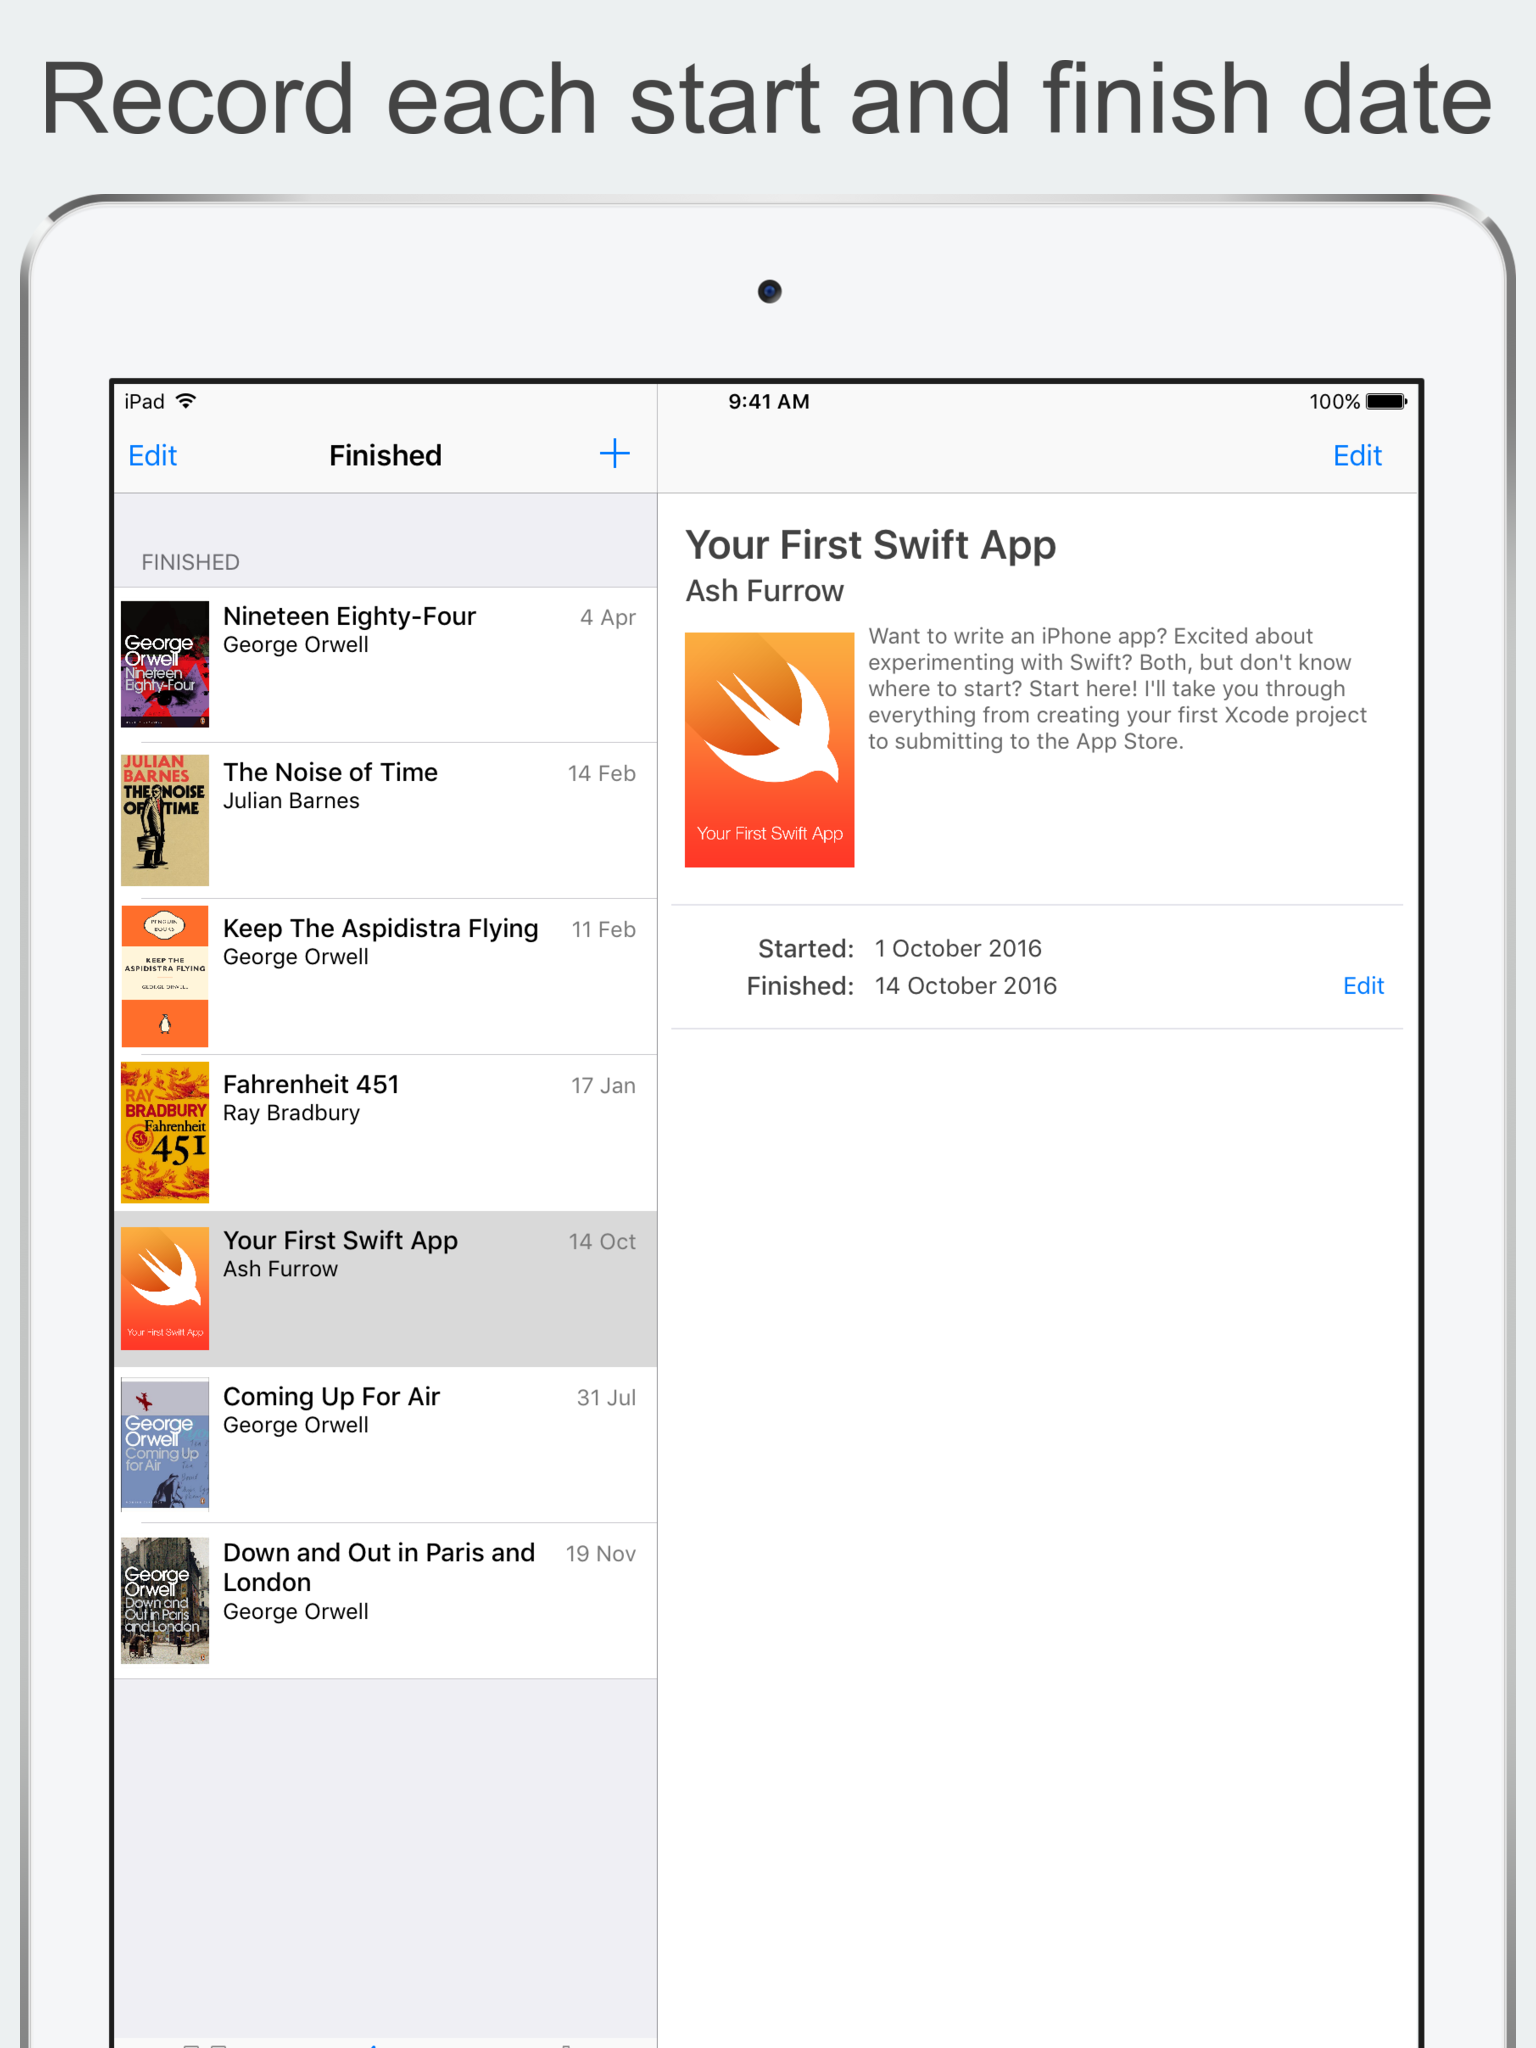
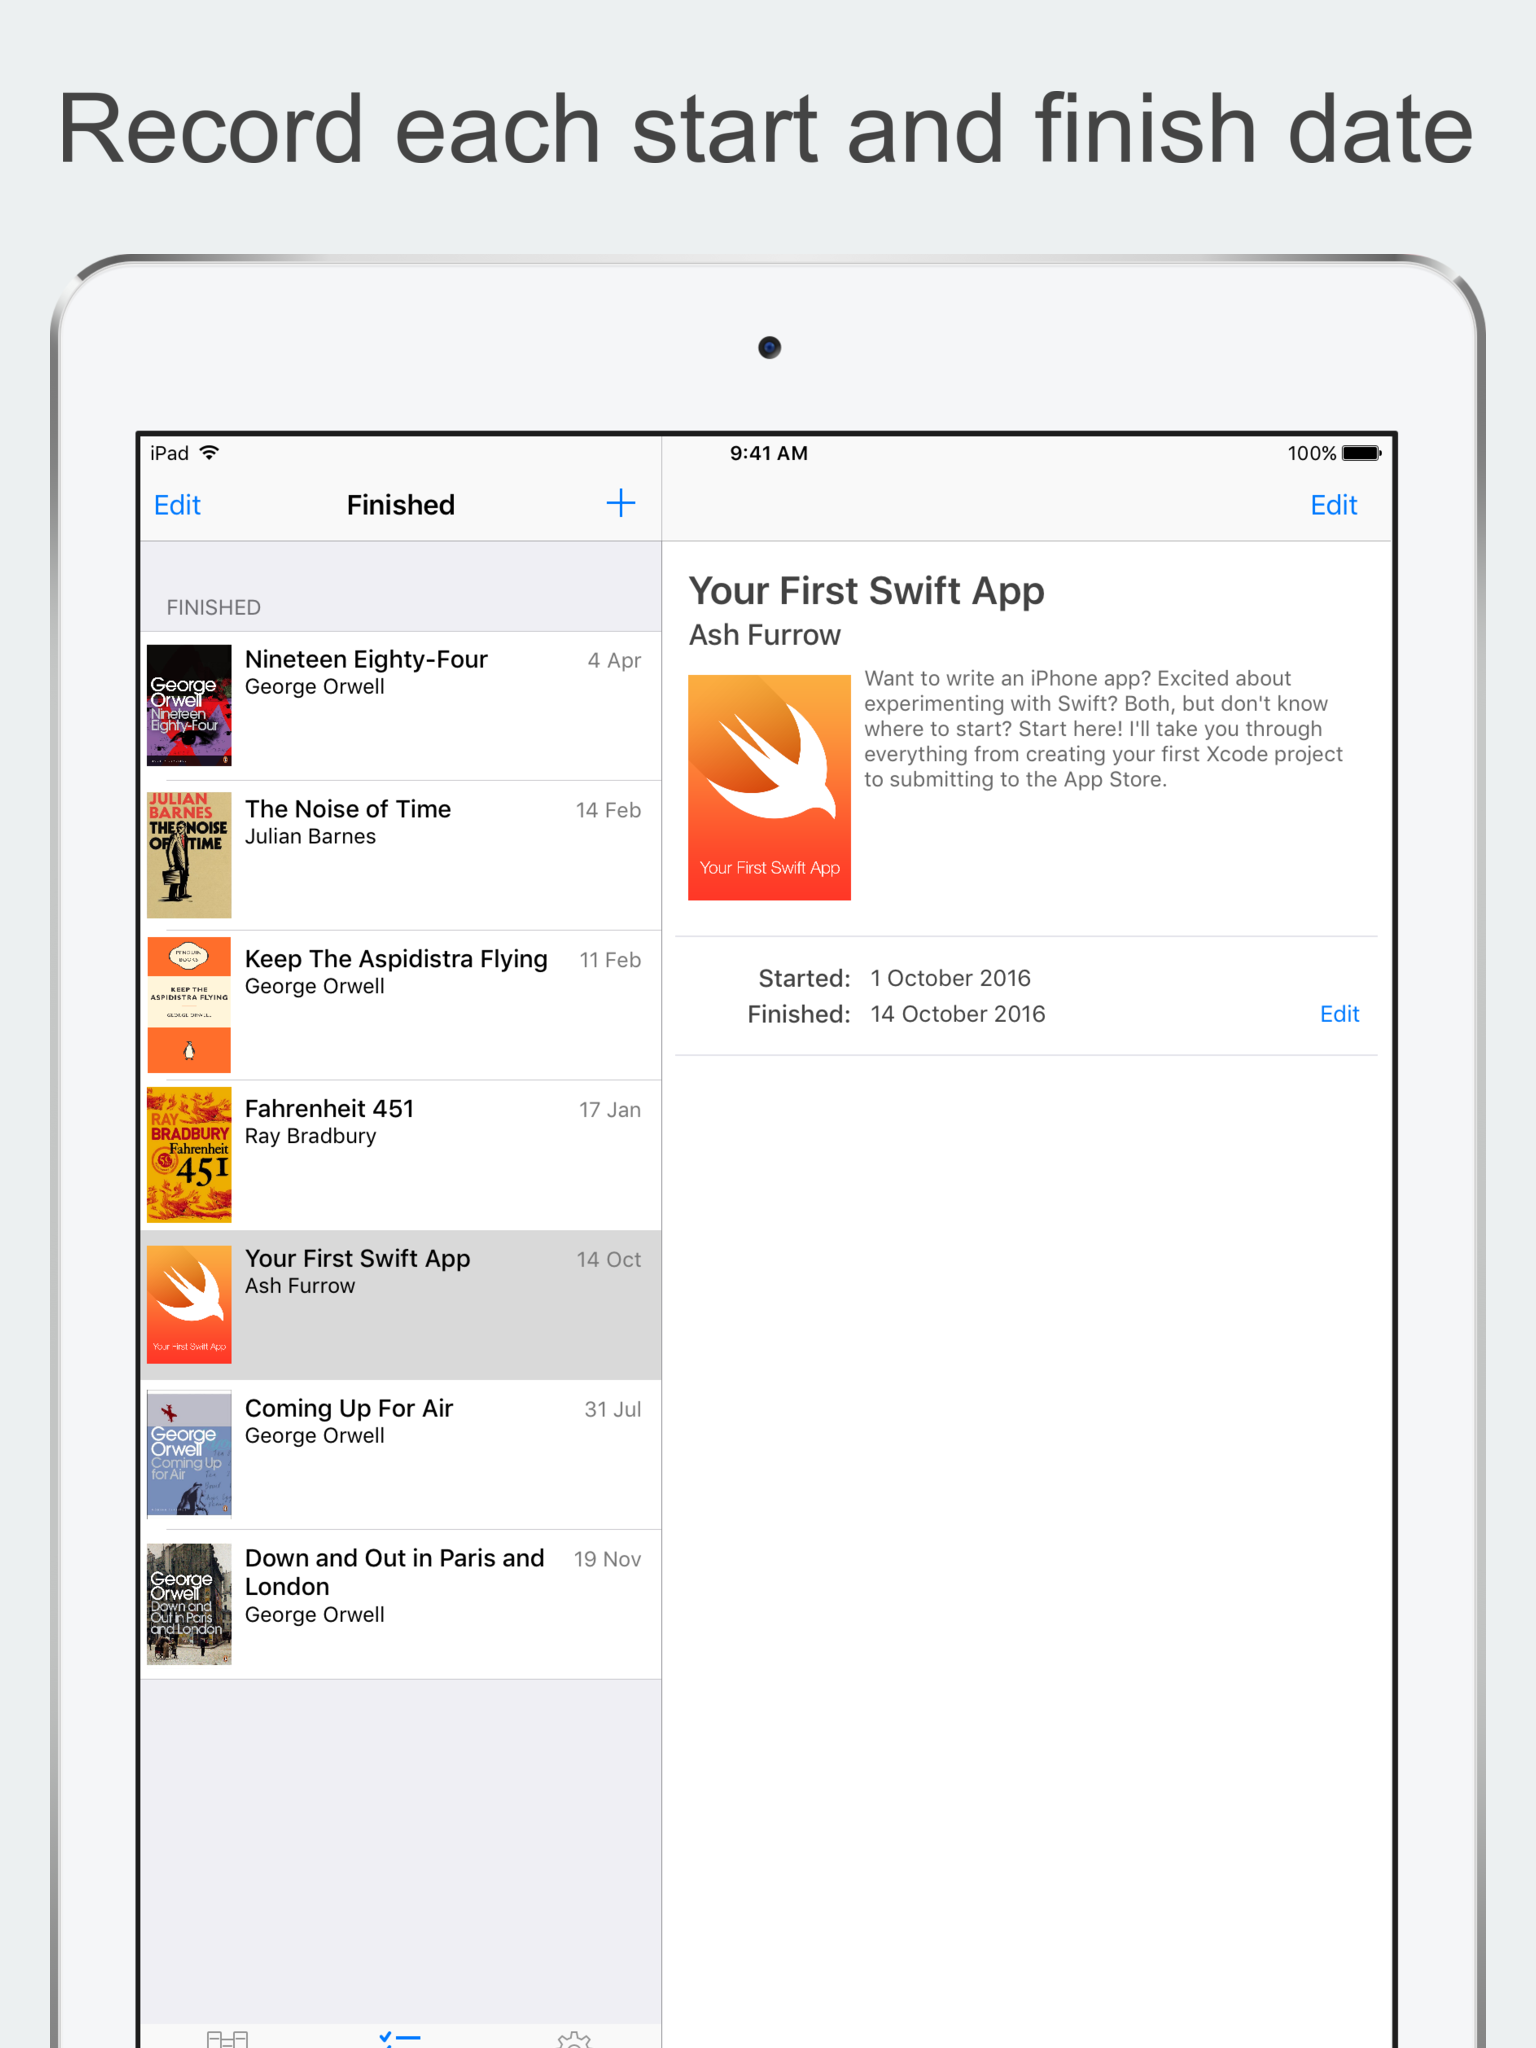
Adjust screenshots, fix unit test, increment to version 1.0.2

Changed region(s): [[0.0, 0.0312, 1.0, 1.0], [0.375, 0.75, 0.4375, 0.7812]]

diff --git a/books_UnitTests/books_UnitTests.swift b/books_UnitTests/books_UnitTests.swift
@@ -31,9 +31,9 @@ class books_UnitTests: XCTestCase {
         return component
     }
     
-    private let yesterday = Date().date(byAdding: books_UnitTests.days(-1))!
-    private let today = Date()
-    private let tomorrow = Date().date(byAdding: books_UnitTests.days(1))!
+    private let yesterday = Date.startOfToday().date(byAdding: books_UnitTests.days(-1))!
+    private let today = Date.startOfToday()
+    private let tomorrow = Date.startOfToday().date(byAdding: books_UnitTests.days(1))!
     
     var currentTestBook = 0
     
